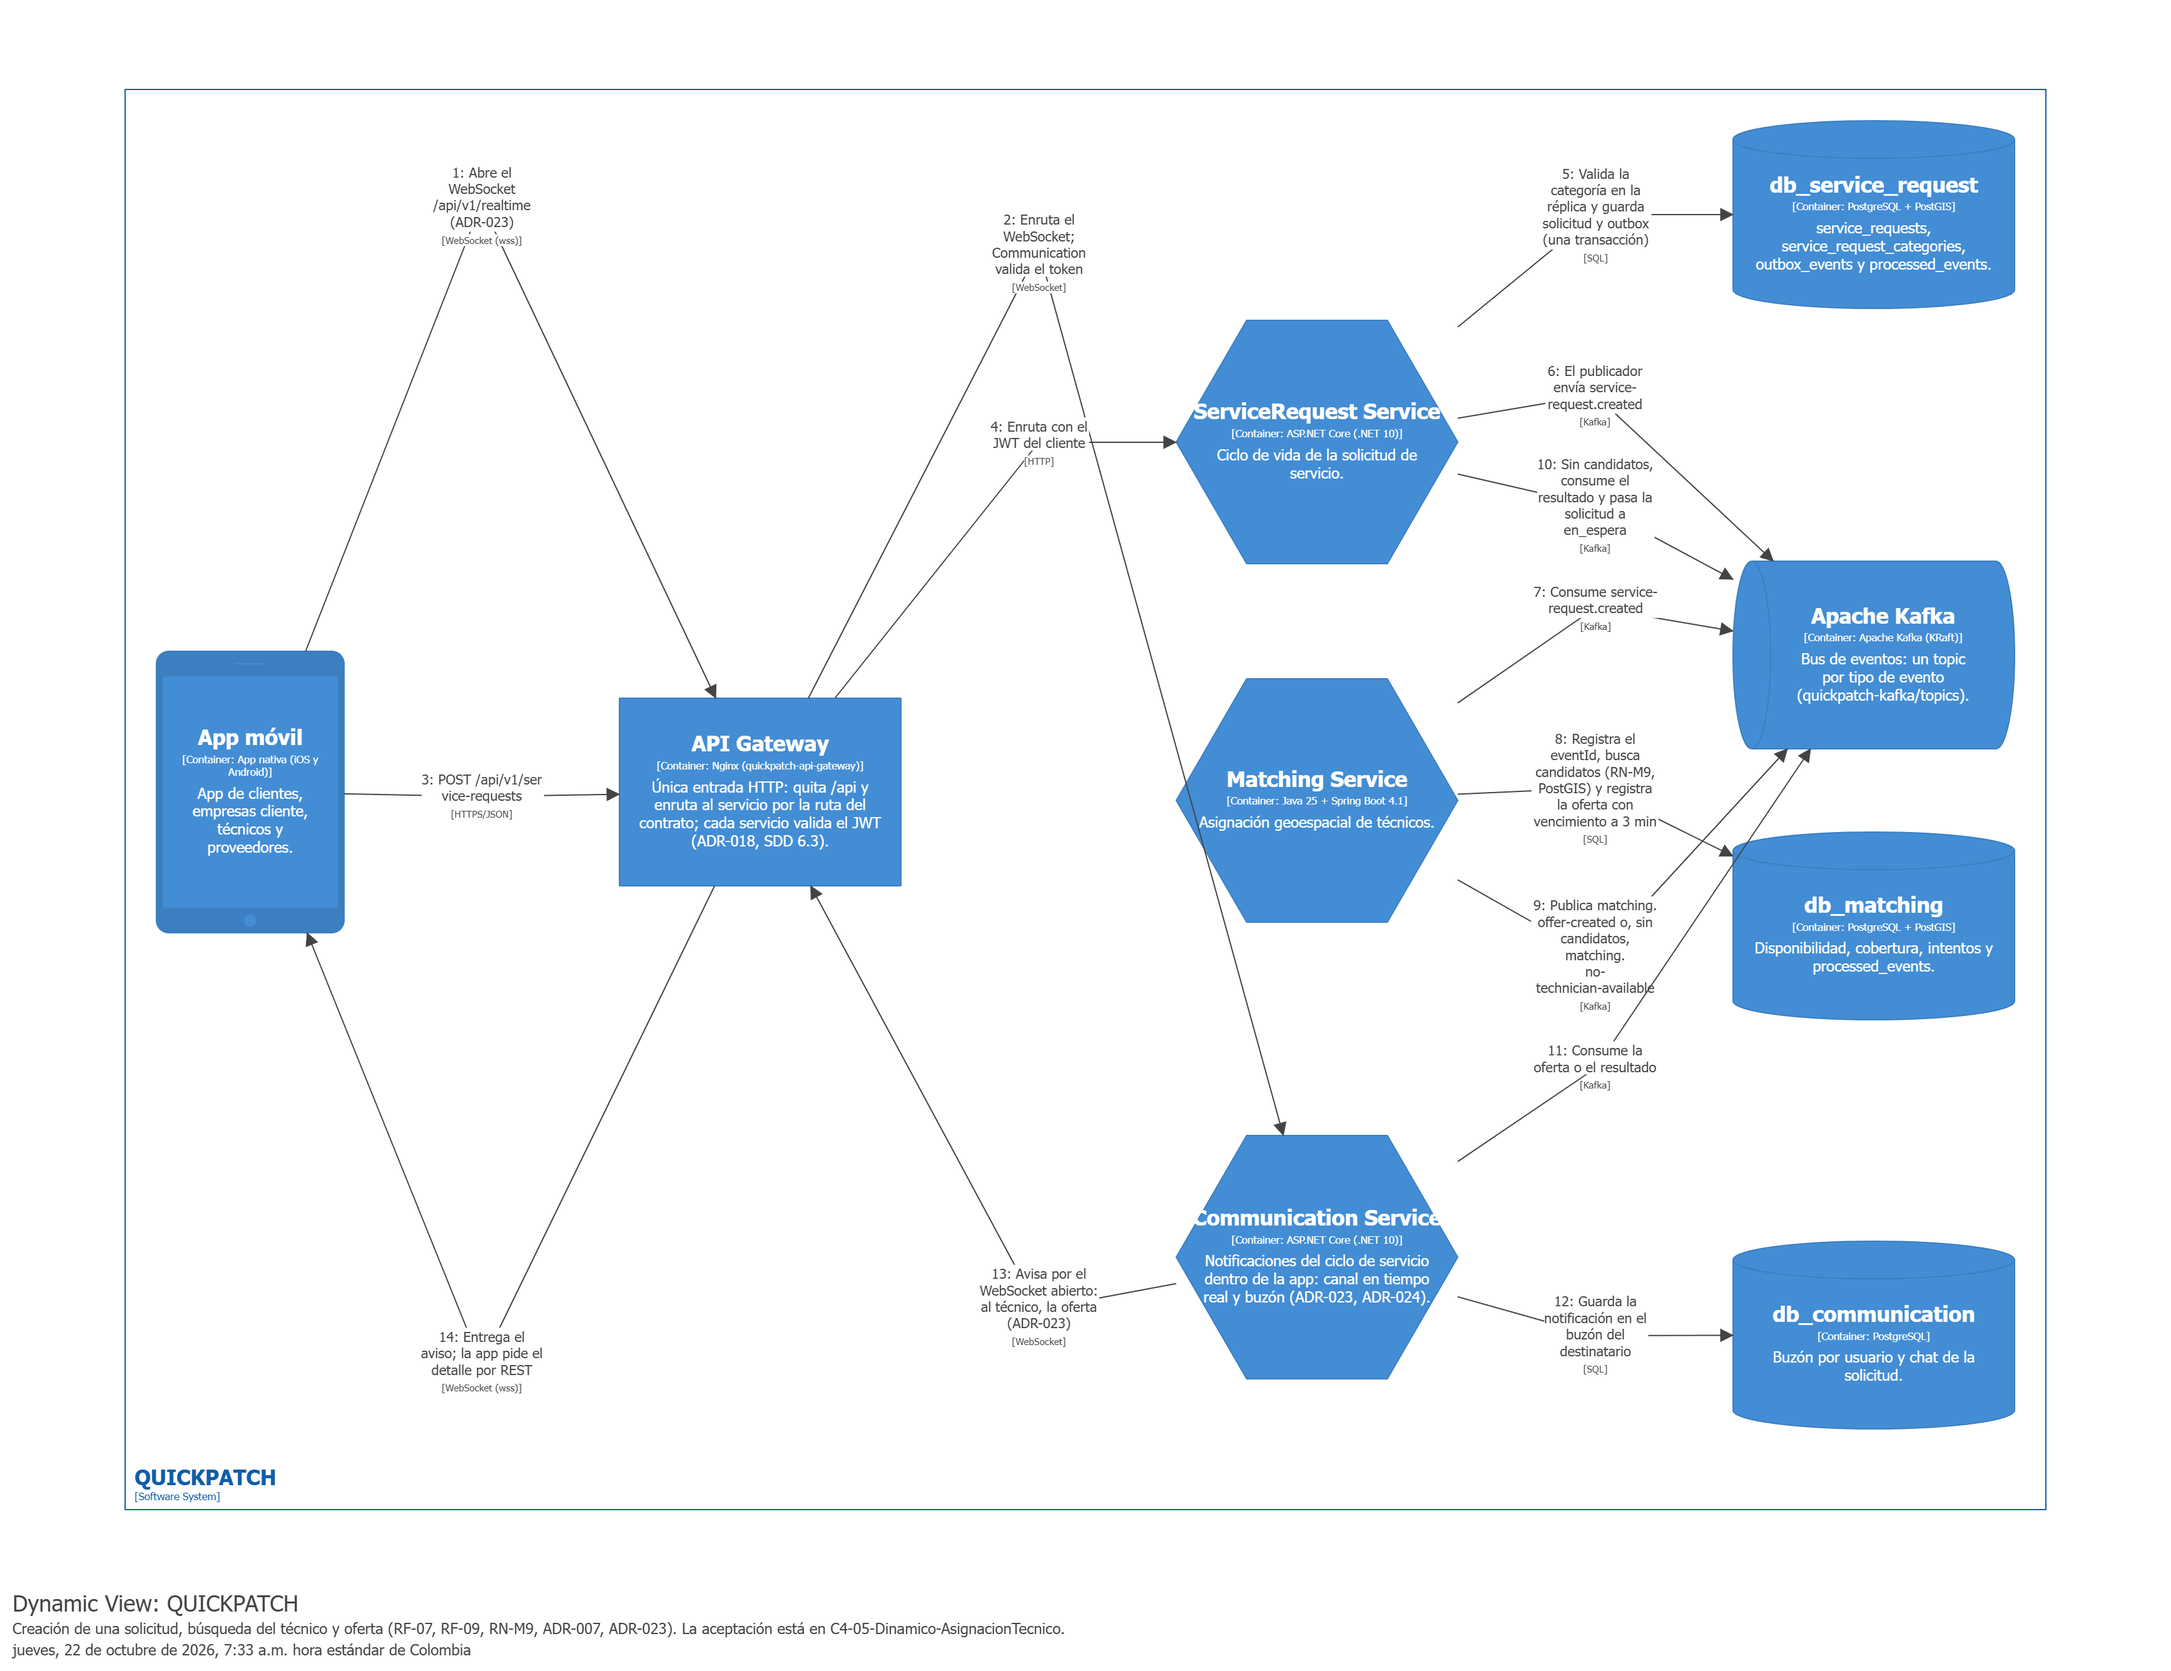
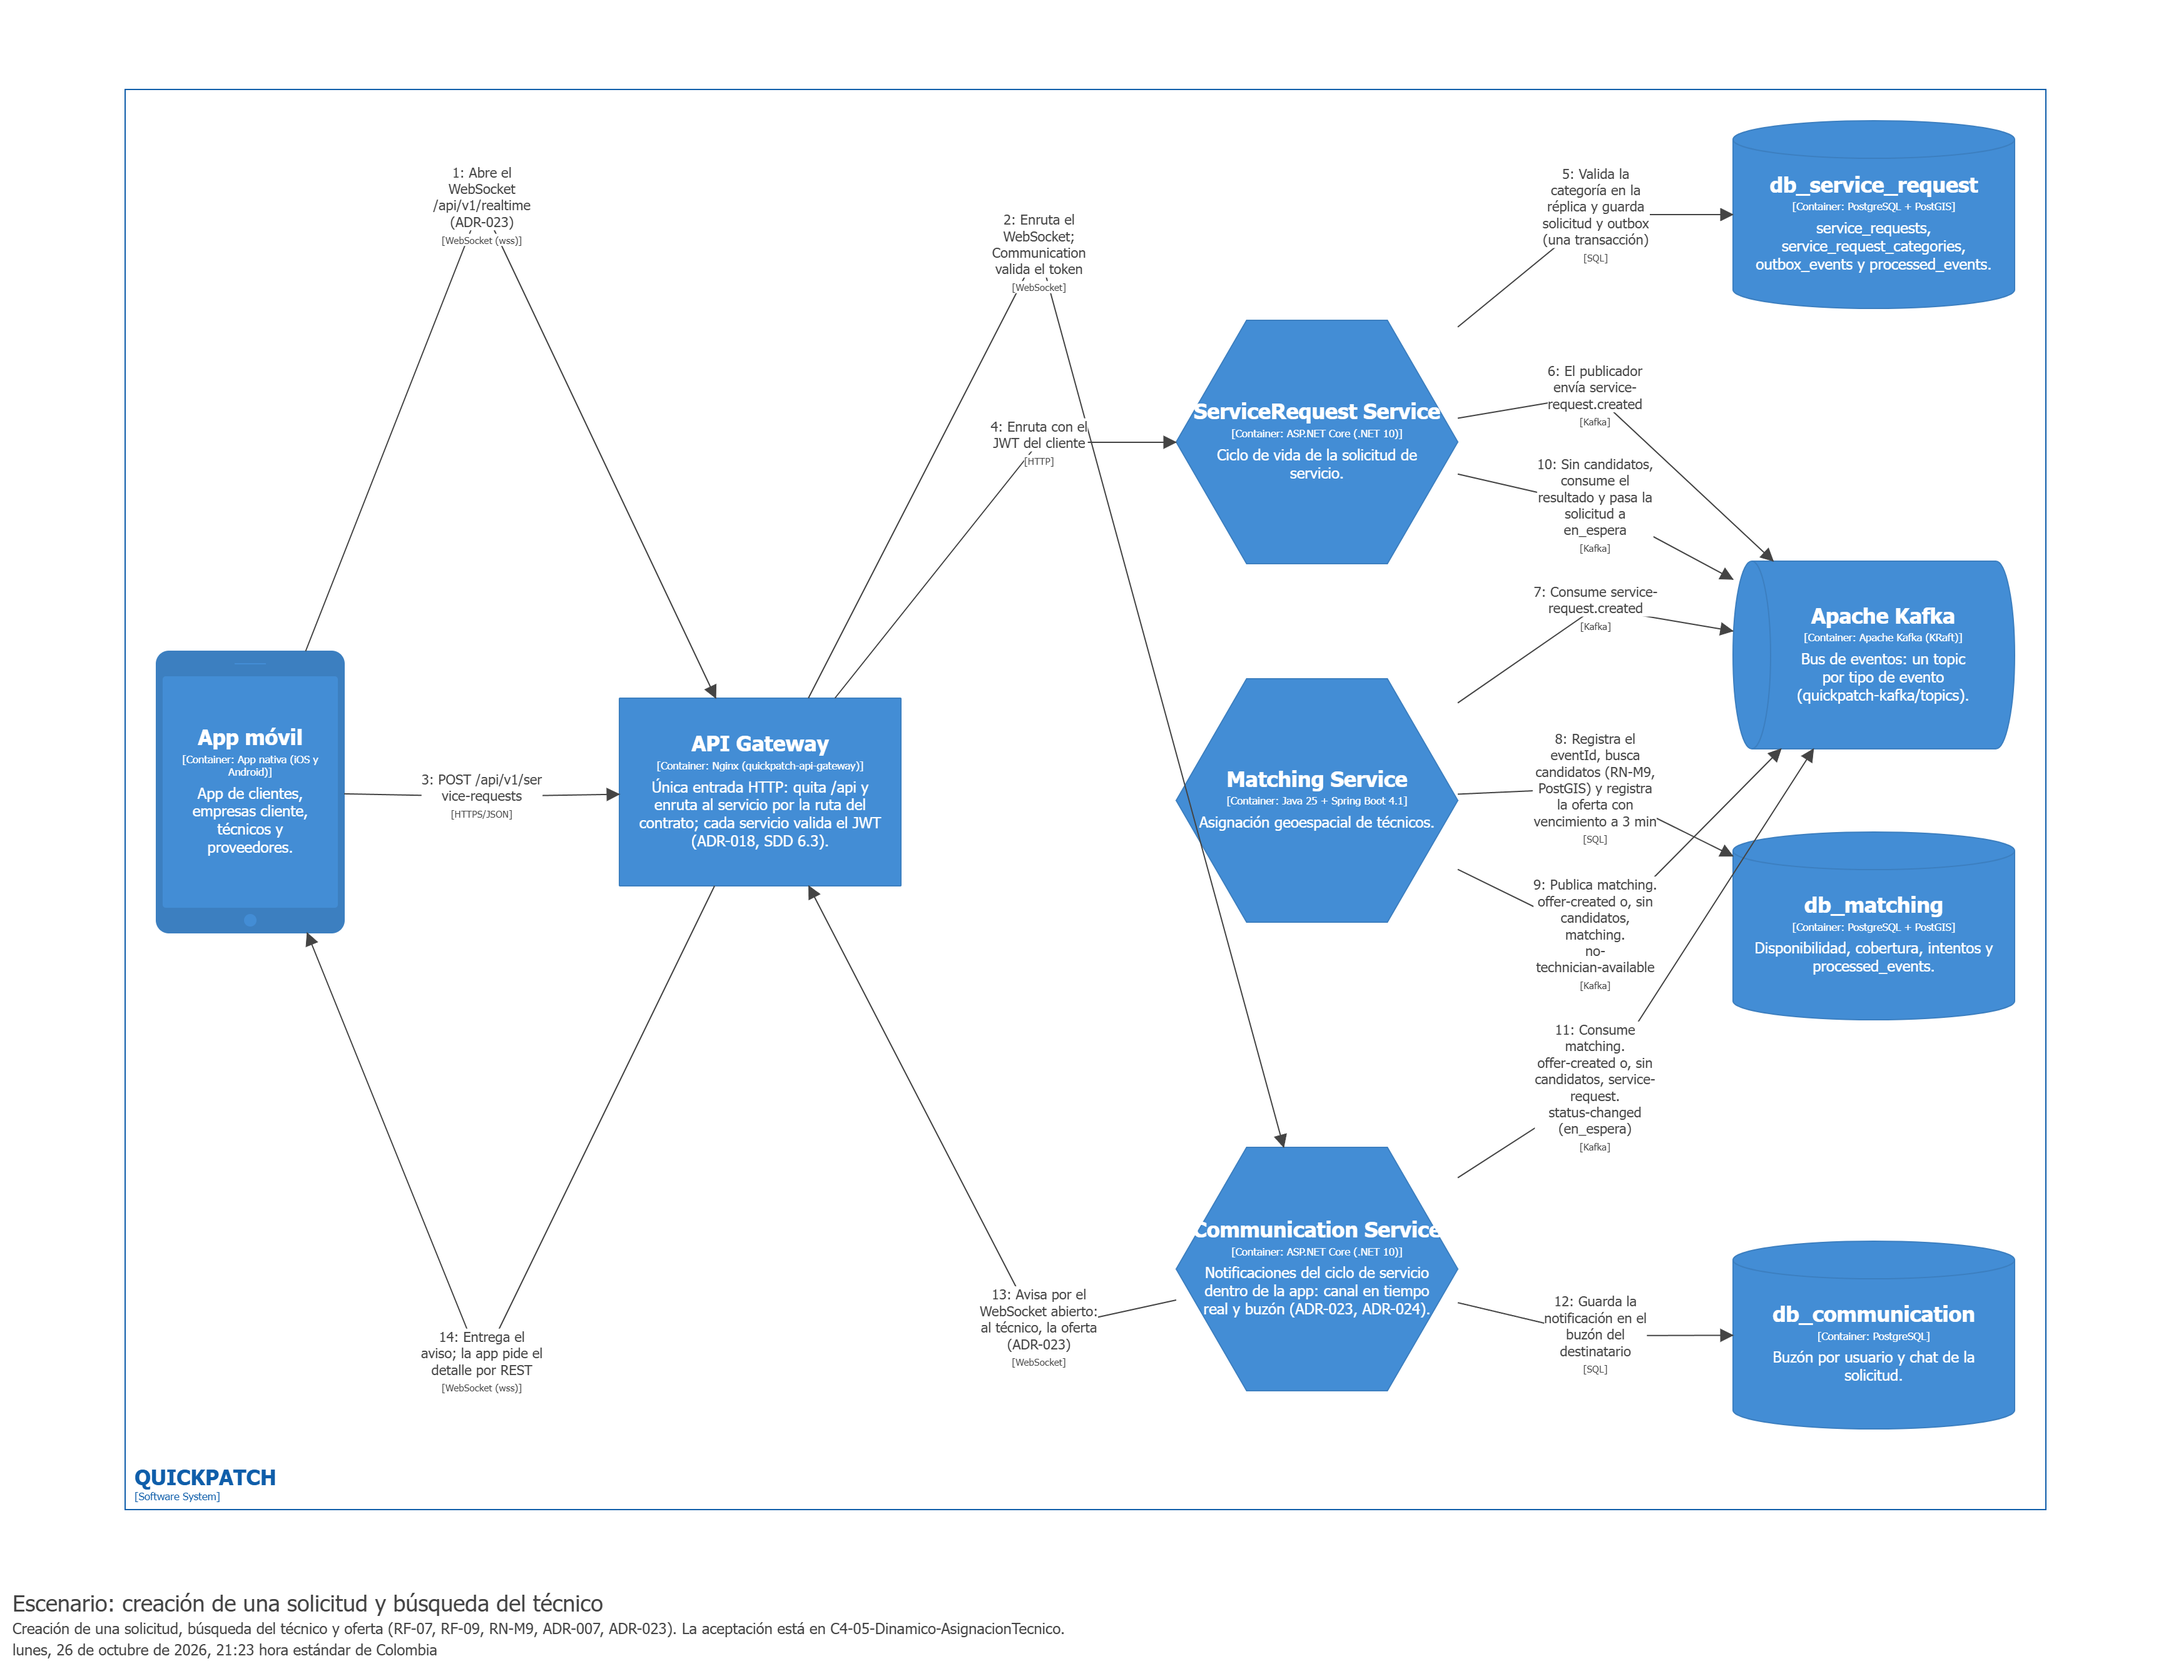
docs(sdd): escenario de asignación de técnico con pasos numerados y eventos por nombre (SCRUM-590)

diff --git a/docs/architecture/SDD.md b/docs/architecture/SDD.md
@@ -864,7 +864,7 @@ sequenceDiagram
 
 ---
 
-**Vista C4.** Los diagramas dinámicos muestran el flujo a nivel de contenedores y numerado: la Figura 22 va de la solicitud a la oferta, y la Figura 22b, de la aceptación al aviso al cliente.
+**Vista C4.** Los diagramas dinámicos muestran el flujo a nivel de contenedores y numerado: cada uno lleva como título el escenario que representa, y sus pasos nombran el evento de Kafka que viaja en cada uno. La Figura 22 va de la solicitud a la oferta, y la Figura 22b recorre el escenario completo de la asignación, desde `service-request.created` hasta que el cliente ve a su técnico (SCRUM-590).
 
 ![Creación de solicitud y matching (C4 · Dynamic)](diagrams/c4/C4-05-Dinamico-CrearSolicitud.png)
 
@@ -872,11 +872,11 @@ sequenceDiagram
 
 ### 8.3.1 Aceptación de la oferta por el técnico (SCRUM-30)
 
-El técnico ve sus ofertas pendientes con la localidad y la distancia, pero no la dirección, que solo recibe al quedar asignado (RN-SR13; `GET /v1/matching/offers?status=pendiente`). Al aceptar (`POST /v1/matching/offers/{attemptId}/accept`), Matching Service verifica en una sola transacción que la oferta siga `pendiente`, sea de ese técnico y no haya vencido, y que el técnico siga `disponible`. Si no, responde `409 oferta-no-disponible` o `409 tecnico-no-disponible`. Si todo se cumple, marca al técnico `ocupado` y publica `matching.technician-assigned` por el Outbox. ServiceRequest pasa la solicitud a `asignado`, y Communication guarda la notificación en el buzón y avisa al cliente por su WebSocket.
+El técnico ve sus ofertas pendientes con la localidad y la distancia, pero no la dirección, que solo recibe al quedar asignado (RN-SR13; `GET /v1/matching/offers?status=pendiente`). Al aceptar (`POST /v1/matching/offers/{attemptId}/accept`), Matching Service verifica en una sola transacción que la oferta siga `pendiente`, sea de ese técnico y no haya vencido, y que el técnico siga `disponible`. Si no, responde `409 oferta-no-disponible` o `409 tecnico-no-disponible`. Si todo se cumple, marca al técnico `ocupado` y publica `matching.technician-assigned` por el Outbox. ServiceRequest la consume, pasa la solicitud a `asignado` y publica `service-request.status-changed` en la misma transacción; Communication consume ese evento (no el de Matching, SCRUM-466), guarda la notificación en el buzón y avisa al cliente por su WebSocket.
 
 ![Aceptación del técnico (C4 · Dynamic)](diagrams/c4/C4-05-Dinamico-AsignacionTecnico.png)
 
-**Figura 22b. Aceptación de la oferta por el técnico y aviso al cliente (C4 · Dynamic; diseño). Vista `C4-05-Dinamico-AsignacionTecnico`.**
+**Figura 22b. Escenario: asignación de técnico a una solicitud (C4 · Dynamic). Vista `C4-05-Dinamico-AsignacionTecnico`.**
 
 ## 8.4 Secuencia de pago y facturación
 
